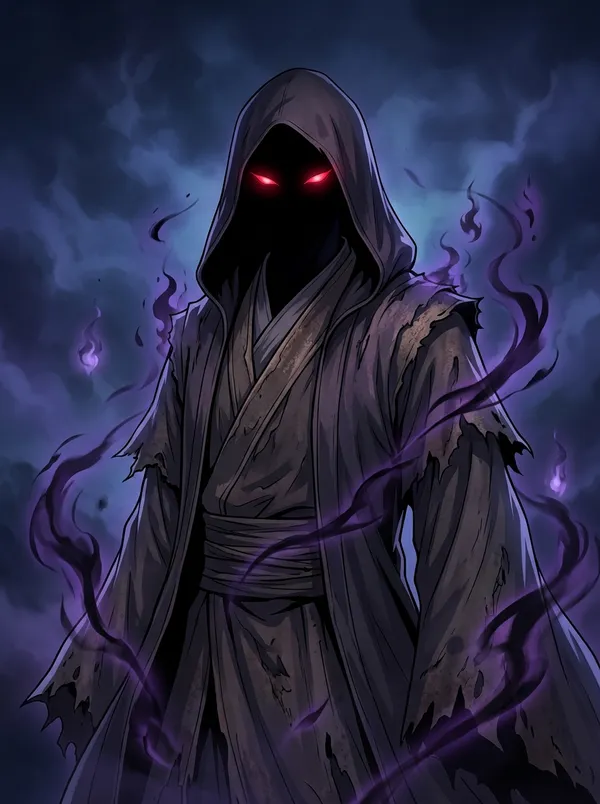
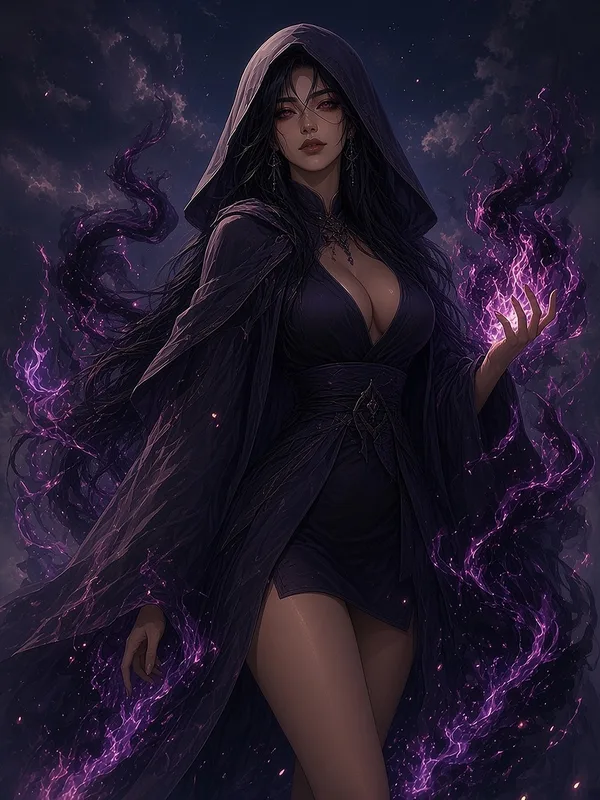
Enemy placeholder portrait redrawn in hero v21 painterly style (enemy img v17)

diff --git a/js/stage-ui.js b/js/stage-ui.js
@@ -47,10 +47,10 @@
     }
     if (!raw) return '';
     if (raw.includes('/')) {
-      return raw.includes('?') ? raw : `${raw}?v=16`;
+      return raw.includes('?') ? raw : `${raw}?v=17`;
     }
     const filename = raw.endsWith('.webp') ? raw : `${raw}.webp`;
-    return `assets/enemies/${filename}?v=16`;
+    return `assets/enemies/${filename}?v=17`;
   }
 
   function updateEnemyPortrait(enemy) {

diff --git a/index.html b/index.html
@@ -529,7 +529,7 @@
   <script src="js/titles.js?v=19"></script>
   <script src="js/battle.js?v=19"></script>
   <script src="js/gear.js?v=19"></script>
-  <script src="js/stage-ui.js?v=19"></script>
+  <script src="js/stage-ui.js?v=20"></script>
   <script src="js/game.js?v=19"></script>
 </body>
 
